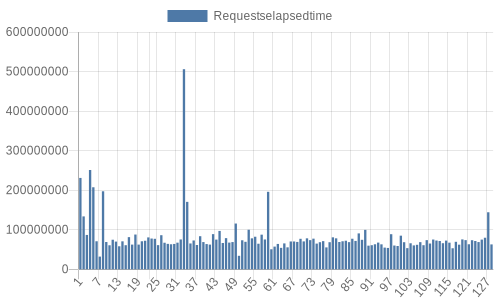
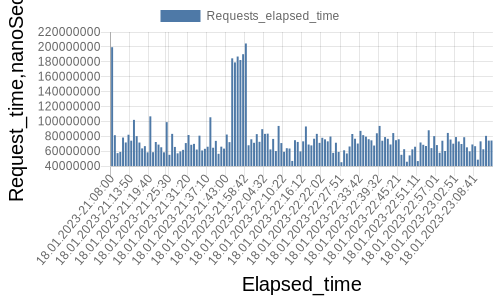
Resolved problems

diff --git a/src/main/java/com/example/metrics/sheduled/MetricsCollector.java b/src/main/java/com/example/metrics/sheduled/MetricsCollector.java
@@ -25,6 +25,9 @@ import java.net.URLDecoder;
 import java.nio.file.Files;
 import java.nio.file.Path;
 import java.nio.file.Paths;
+import java.text.DateFormat;
+import java.text.SimpleDateFormat;
+import java.util.Date;
 import java.util.HashMap;
 import java.util.List;
 import java.util.Map;
@@ -58,6 +61,7 @@ public class MetricsCollector {
 
         Metrics metric = new Metrics();
         metric.setMsRequestPending(stopwatch.getNanoTime());
+        metric.setMsDateTime(new Date());
 
         metricsRepository.save(metric);
     }
@@ -70,15 +74,41 @@ public class MetricsCollector {
 
         List<Metrics> metrics = metricsRepository.findAll();
 
+        DateFormat dateFormat = new SimpleDateFormat("dd.MM.yyyy-HH:mm:ss");
+
         String config = "{"
                 + "    type: 'bar',"
                 + "    data: {"
-                + "        labels: [" + metrics.stream().map(x -> "\'" + x.getId().toString() + "\'").collect(Collectors.joining(",")) + "],"
+                + "        labels: [" + metrics.stream().map(x -> "\'" + dateFormat.format(x.getMsDateTime()) + "\'").collect(Collectors.joining(",")) + "],"
                 + "        datasets: [{"
-                + "            label: 'Requests elapsed time',"
+                + "            label: 'Requests_elapsed_time',"
                 + "            data: [" + metrics.stream().map(x -> x.getMsRequestPending().toString()).collect(Collectors.joining(",")) + "]"
                 + "        }]"
-                + "    }"
+                + "    },"
+                + "    options: {"
+                + "        scales: {"
+                + "            xAxes: ["
+                + "                 {"
+                + "                    scaleLabel: {"
+                + "                         display: true,"
+                + "                         fontColor: '#000000',"
+                + "                         fontSize: 20,"
+                + "                         labelString: 'Elapsed_time',"
+                + "                    },"
+                + "                 },"
+                + "             ],"
+                + "             yAxes: ["
+                + "                 {"
+                + "                     scaleLabel: {"
+                + "                         display: true,"
+                + "                         labelString: 'Request_time,nanoSec',"
+                + "                         fontColor: '#000000',"
+                + "                         fontSize: 20,"
+                + "                     },"
+                + "                 },"
+                + "             ]"
+                + "         }"
+                + "     }"
                 + "}";
 
         config = config.replace(" ", "");
@@ -134,7 +164,7 @@ public class MetricsCollector {
 
         URI uri = UriComponentsBuilder.fromHttpUrl("https://api.ocr.space/parse/imageurl")
                 .queryParam("apikey", "K89541776288957")
-                .queryParam("url", "https://fsd.multiurok.ru/html/2017/11/14/s_5a0adc1b72c60/img2.jpg")
+                .queryParam("url", "https://cdn.trinixy.ru/uploads/posts/2017-09/1506092031_kartinki_s_nadpisiami_22.jpg")
                 .build().toUri();
 
         System.out.println("Send");

diff --git a/src/main/java/com/example/metrics/entity/Metrics.java b/src/main/java/com/example/metrics/entity/Metrics.java
@@ -1,10 +1,10 @@
 package com.example.metrics.entity;
 
-import lombok.Builder;
 import lombok.Data;
 import lombok.NoArgsConstructor;
 
 import javax.persistence.*;
+import java.util.Date;
 
 @Entity
 @Table(name = "metric")
@@ -19,4 +19,8 @@ public class Metrics {
 
     @Column(name = "ms_request_pending")
     private Long msRequestPending;
+
+    @Column(name = "ms_dt")
+    @Temporal(TemporalType.TIMESTAMP)
+    private Date msDateTime;
 }
